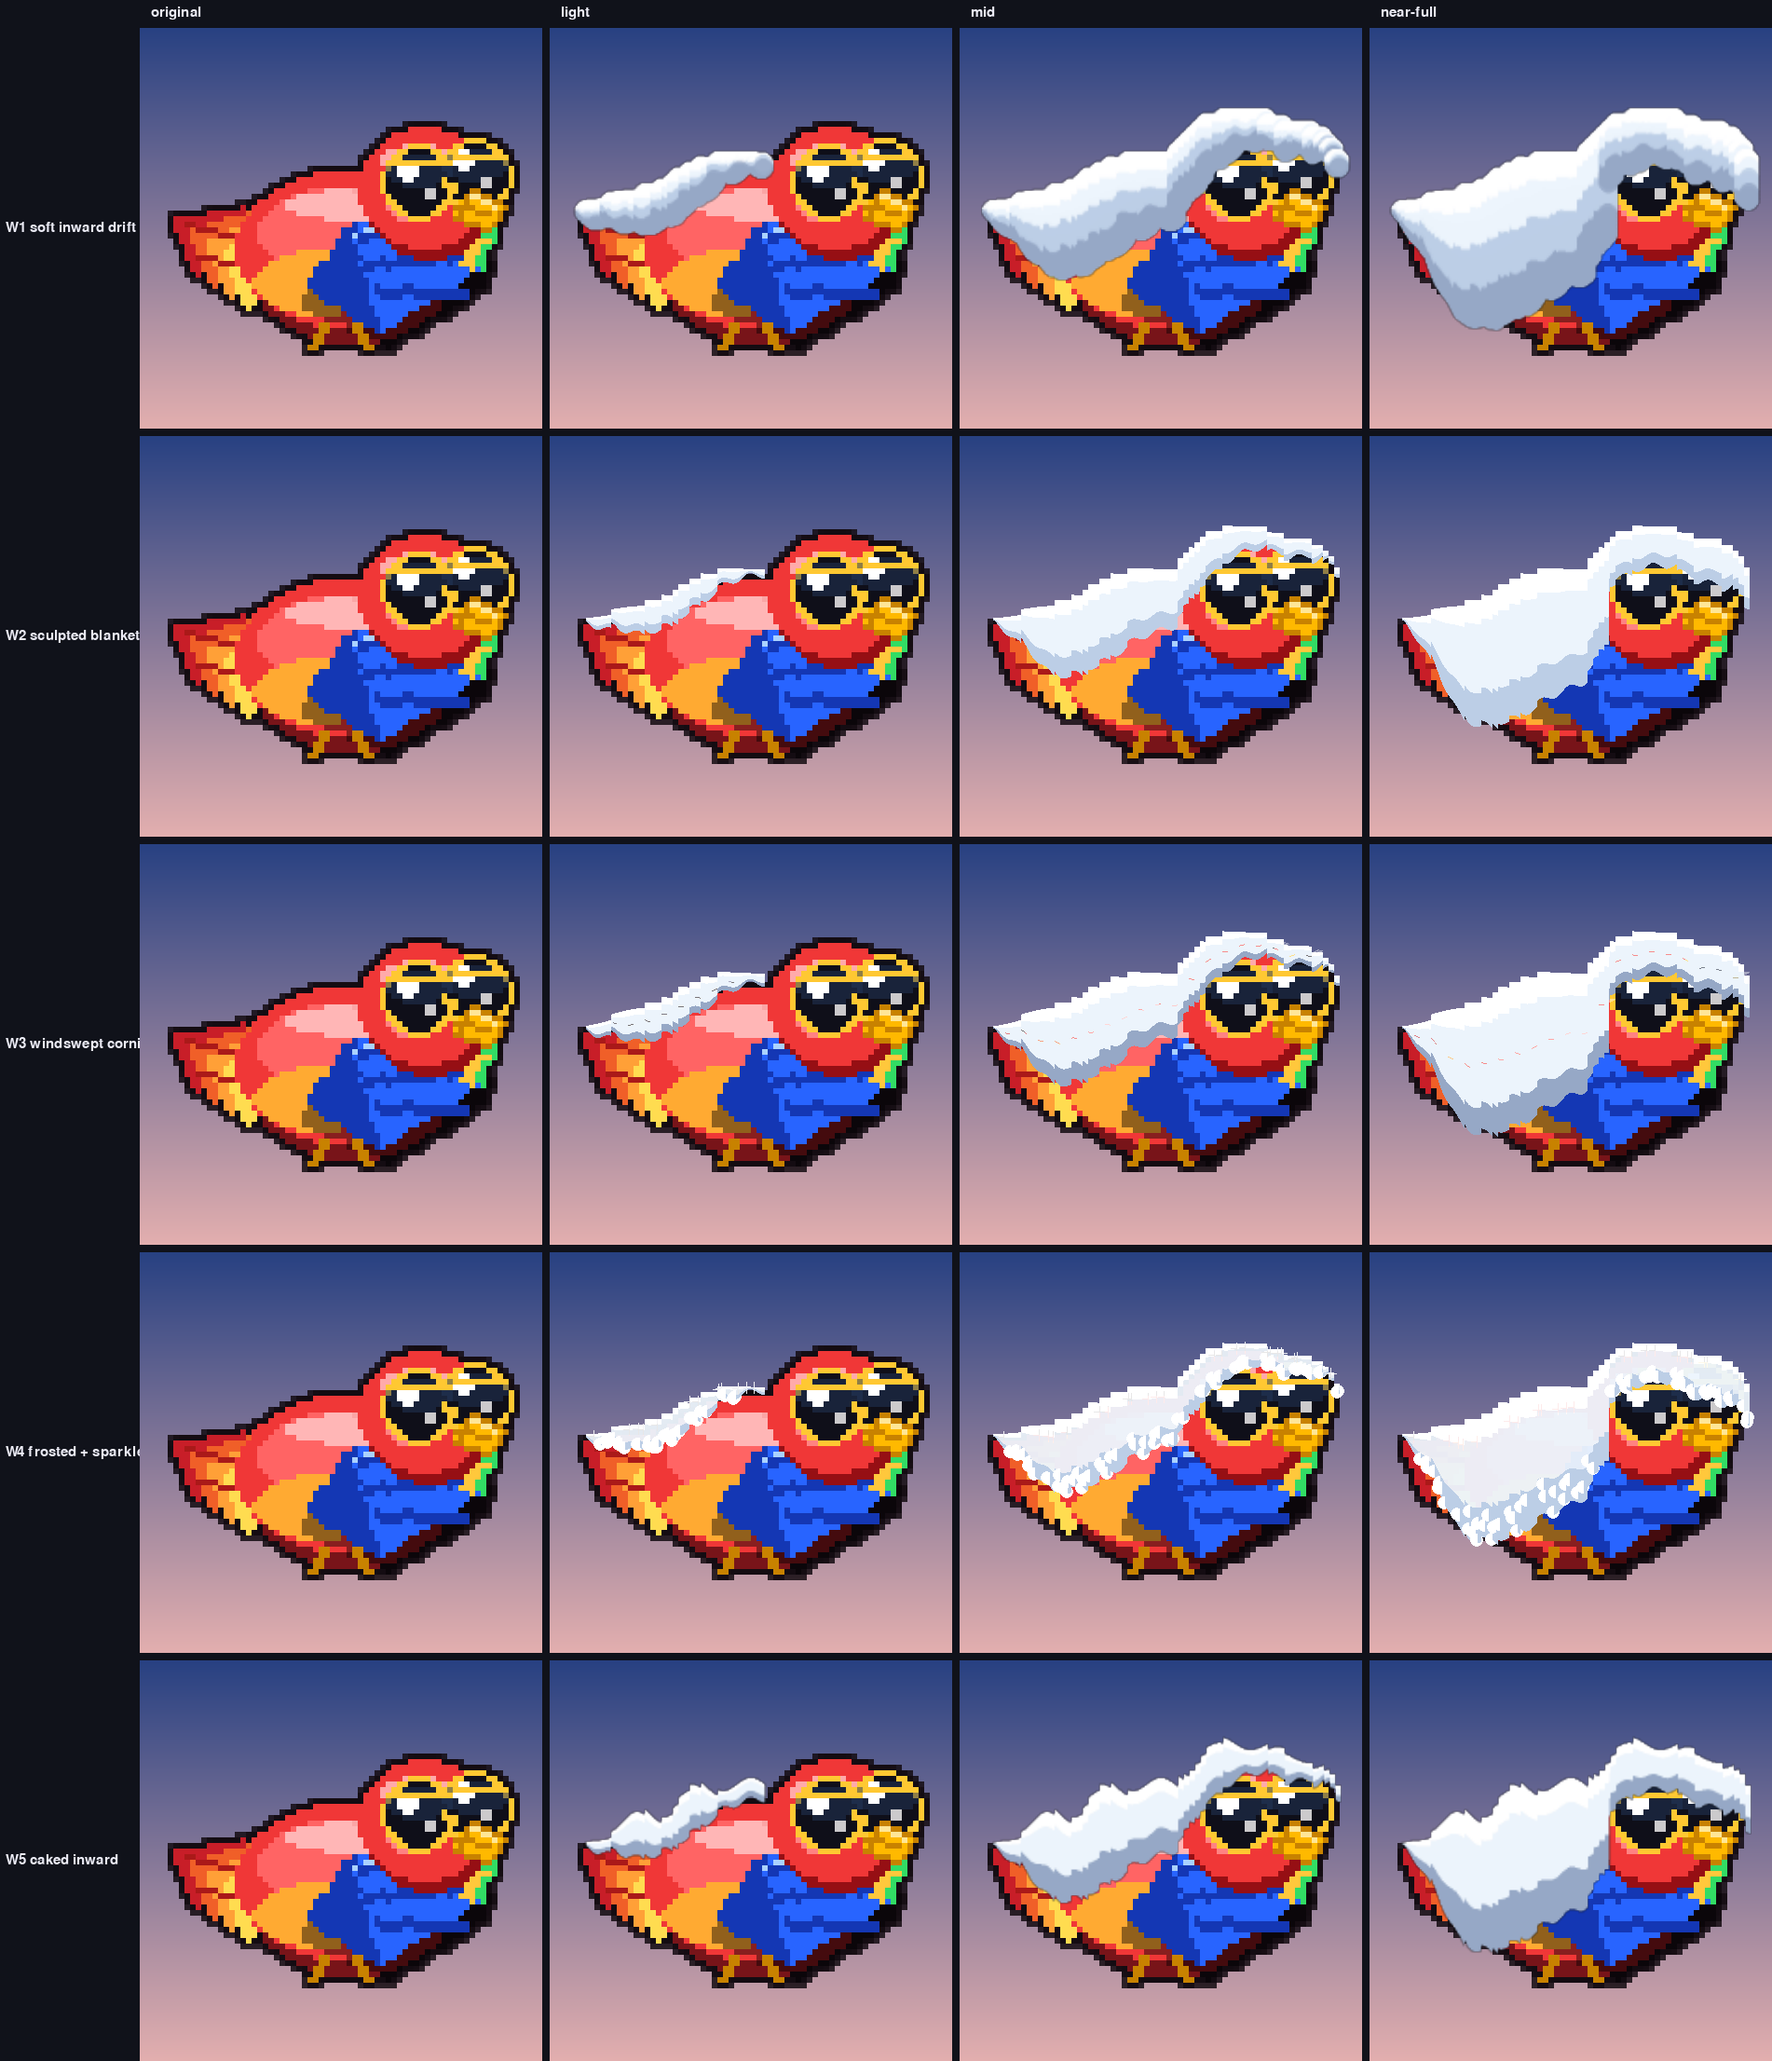
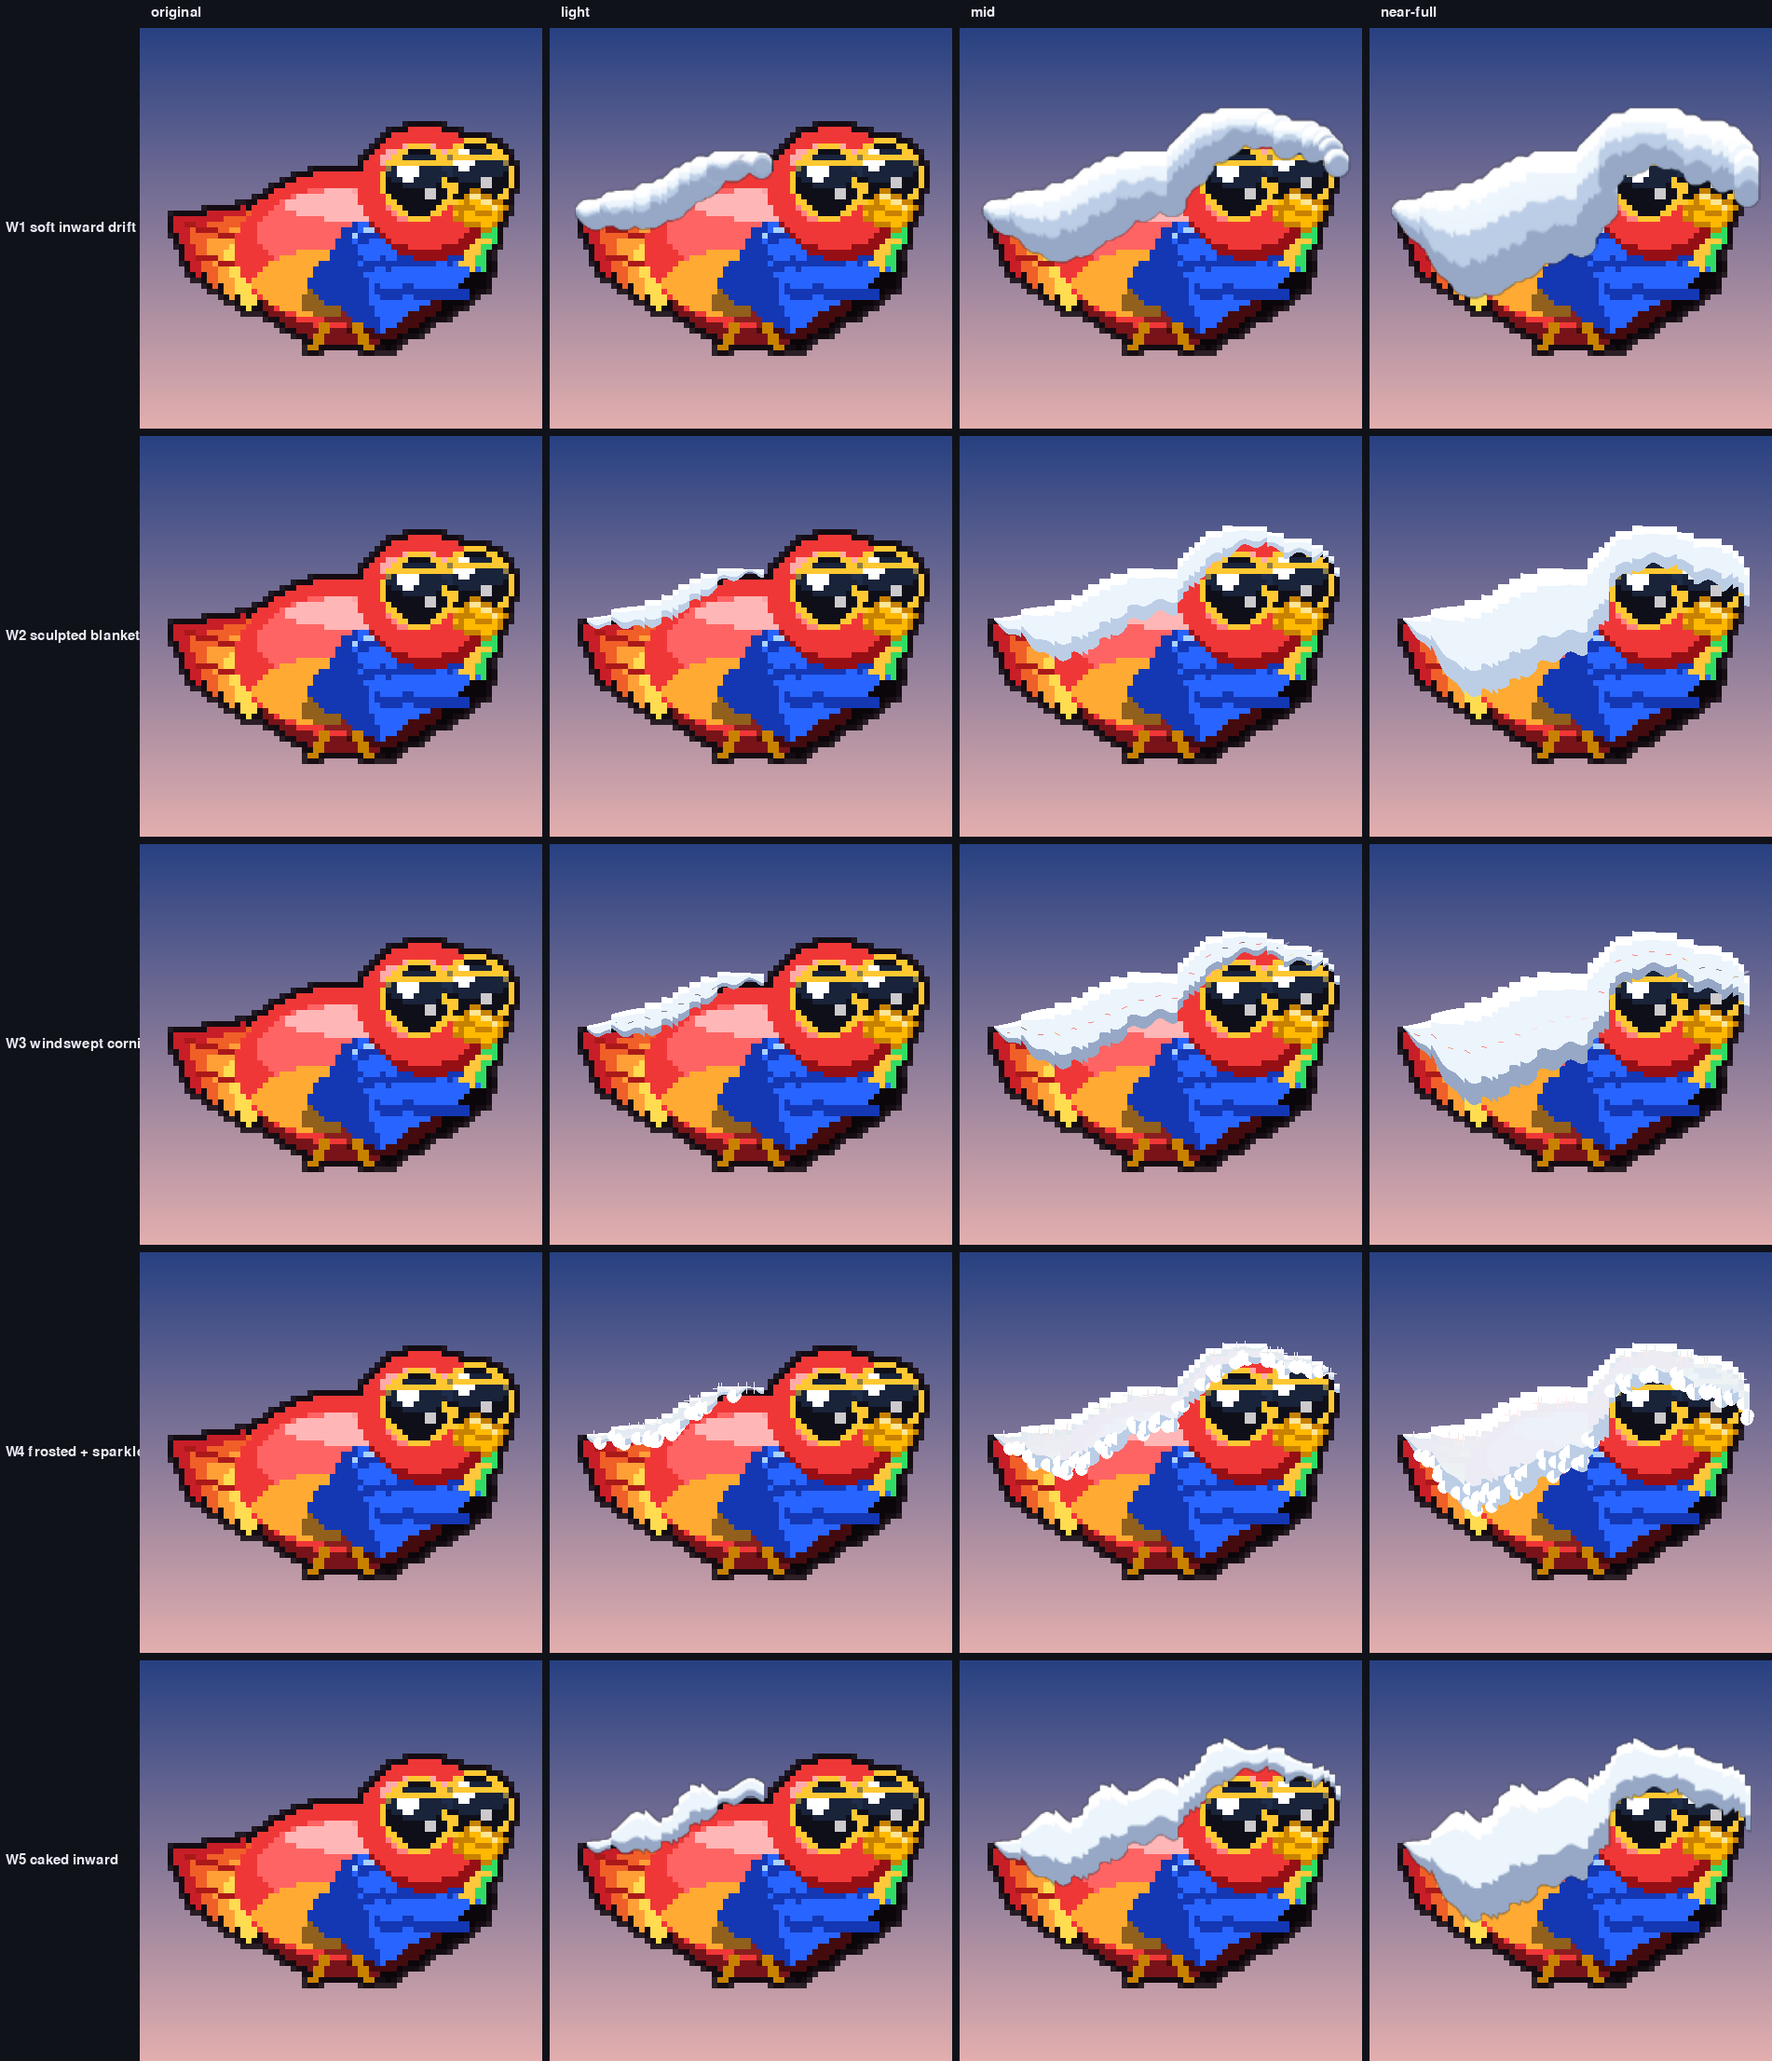
Snow: ease back the body pile (less depth over the mid-body)
Per feedback the main snow mass on the body was a touch heavy: reduce the
inward bulge coefficient (0.75->0.45) and MAXD (17->15) so the body keeps
a lighter cap while the rear taper + rear-first growth stay intact.

https://claude.ai/code/session_01JWYQYgqQbSfQKYb7zu7YPg

diff --git a/tools/sketch_snow_accum.py b/tools/sketch_snow_accum.py
@@ -35,7 +35,7 @@ from game.draw import make_gradient_surface
 
 OUT = os.path.join(ROOT, "docs", "screenshots", "snow_accum")
 SCALE = 6
-MAXD = 17.0                       # max snow depth in sprite px (rear, full load)
+MAXD = 15.0                       # max snow depth in sprite px (rear, full load)
 PHASES = [("original", 0.0), ("light", 0.30), ("mid", 0.60), ("near-full", 0.92)]
 
 WHITE = (255, 255, 255)
@@ -106,7 +106,7 @@ def _columns(big, load, cornice=0.0, lump=0.0):
             continue
         rear = 1.0 - xf
         bulge = math.exp(-((xf - 0.40) / 0.26) ** 2)        # inward hump over the back
-        d = MAXD * SCALE * cov * (0.50 + 0.45 * rear + 0.75 * bulge)
+        d = MAXD * SCALE * cov * (0.50 + 0.45 * rear + 0.45 * bulge)
         if xf > 0.60:                                       # crown: thin cap so
             d = min(d, 7.0 * SCALE)                         # eyes/glasses stay clear
         te = _smooth((x - x_min) / taper_w)                 # rear-end slope 0→1
